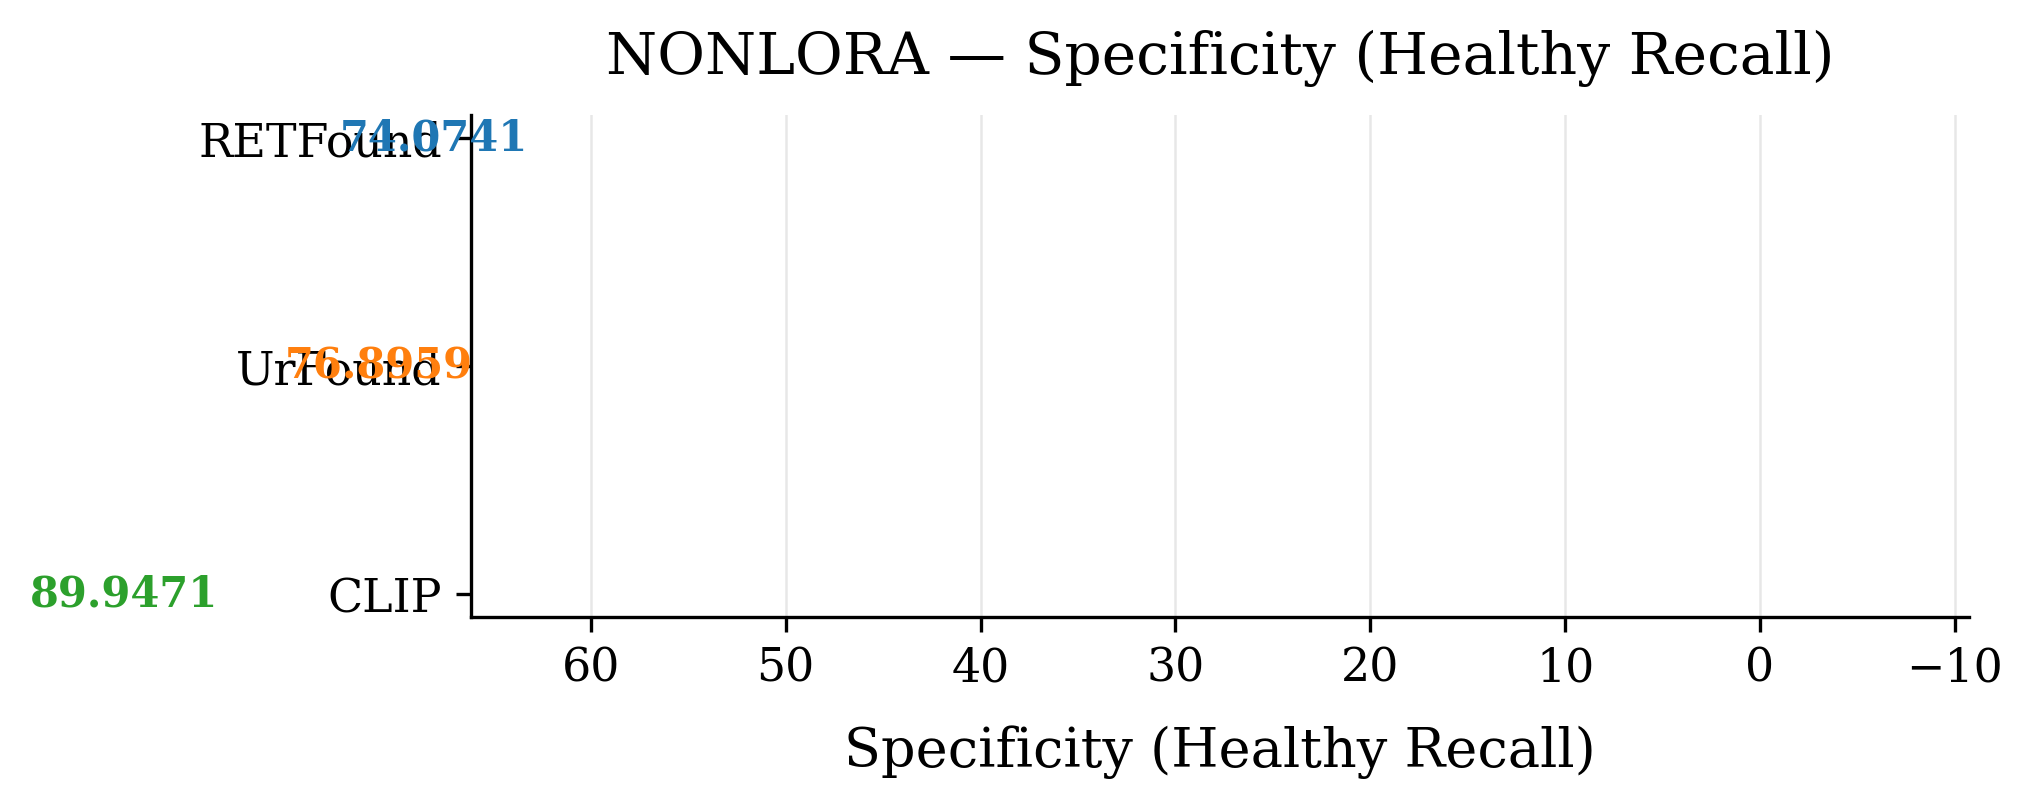
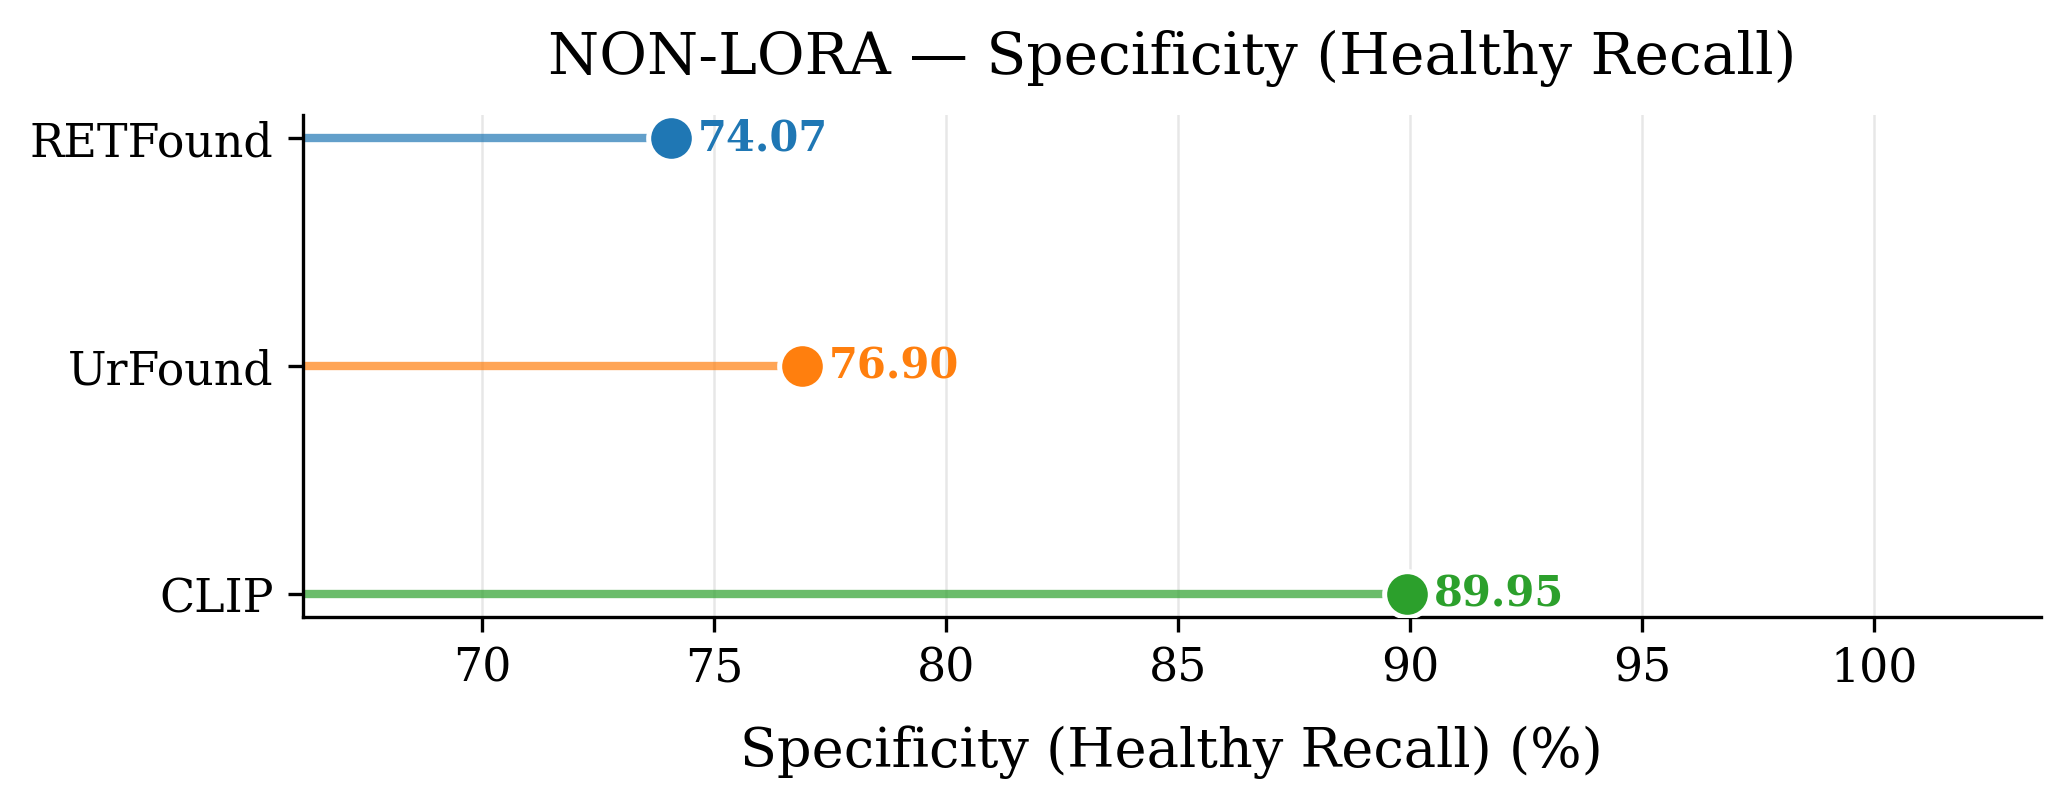
fix to initial no generation of sensitivity and specificity plots + broken glaucoma plots

diff --git a/src/main/results_collator.py b/src/main/results_collator.py
@@ -7,6 +7,7 @@ import pandas as pd
 import time
 import numpy as np
 import matplotlib.ticker as mticker
+from sklearn.metrics import multilabel_confusion_matrix
 
 def load_auc_data(json_path):
     with open(json_path, 'r') as f:
@@ -105,11 +106,16 @@ def _plot_single_metric(json_paths, model_names, output_dir, MODE,
 
     y_positions = np.arange(n_models)[::-1]
 
+    # ── FIX: detect percentage scale (e.g. 73.78) vs proportion (e.g. 0.7378)
+    is_percentage = max(values) > 1.5
+    x_cap = 100.0 if is_percentage else 1.0
+    x_floor = 0.0
+
     v_min  = min(values)
     v_max  = max(values)
-    margin = max((v_max - v_min) * 0.5, 0.05)
-    x_lo   = max(0.0, v_min - margin)
-    x_hi   = min(1.0, v_max + margin)
+    margin = max((v_max - v_min) * 0.5, 0.05 * x_cap)
+    x_lo   = max(x_floor, v_min - margin)
+    x_hi   = min(x_cap,   v_max + margin)
 
     for y, model, value in zip(y_positions, model_names, values):
         color = COLOR_MAP.get(model, 'C0')
@@ -117,14 +123,18 @@ def _plot_single_metric(json_paths, model_names, output_dir, MODE,
         ax.hlines(y, x_lo, value, color=color, linewidth=2.0, alpha=0.7)
         ax.scatter(value, y, color=color, s=120, zorder=5,
                    edgecolors='white', linewidths=1.2)
-        ax.text(value + (x_hi - x_lo) * 0.018, y, f'{value:.4f}',
+        ax.text(value + (x_hi - x_lo) * 0.018, y,
+                f'{value:.2f}' if is_percentage else f'{value:.4f}',
                 va='center', ha='left', fontsize=10,
                 color=color, fontfamily='serif', fontweight='bold')
 
     ax.set_yticks(y_positions)
     ax.set_yticklabels(model_names, fontsize=11)
     ax.set_xlim(x_lo, x_hi + (x_hi - x_lo) * 0.18)
-    ax.set_xlabel(metric_display, labelpad=8)
+    ax.set_xlabel(
+        f'{metric_display} (%)' if is_percentage else metric_display,
+        labelpad=8
+    )
     ax.set_title(f'{MODE} — {metric_display}', pad=10)
     ax.grid(axis='x', alpha=0.3, linewidth=0.6)
     ax.axvline(x_lo, color='black', linewidth=0.6)
@@ -134,7 +144,6 @@ def _plot_single_metric(json_paths, model_names, output_dir, MODE,
     plt.savefig(out, dpi=300, bbox_inches='tight')
     plt.close()
     print(f'Saved: {out}')
-
 
 def _label_bars(ax, bars, fmt='{:.3f}', fontsize=8.5, pad=0.004):
     for bar in bars:
@@ -212,6 +221,15 @@ def plot_qwk(json_paths, model_names, output_dir, MODE):
                         'Quadratic Weighted Kappa', 'qwk.png')
 
 
+def plot_sensitivity(json_paths, model_names, output_dir, MODE):
+    _plot_single_metric(json_paths, model_names, output_dir, MODE,
+                        'sensitivity', 'Sensitivity', 'sensitivity.png')
+
+
+def plot_specificity(json_paths, model_names, output_dir, MODE):
+    _plot_single_metric(json_paths, model_names, output_dir, MODE,
+                        'specificity', 'Specificity', 'specificity.png')
+
 def plot_all_metrics(json_paths, model_names, output_dir, MODE):
     os.makedirs(output_dir, exist_ok=True)
 
@@ -220,6 +238,9 @@ def plot_all_metrics(json_paths, model_names, output_dir, MODE):
     plot_recall(json_paths, model_names, output_dir, MODE)
     plot_f1(json_paths, model_names, output_dir, MODE)
     plot_qwk(json_paths, model_names, output_dir, MODE)
+    plot_sensitivity(json_paths, model_names, output_dir, MODE)
+    plot_specificity(json_paths, model_names, output_dir, MODE)
+
 
     print(f'\nAll plots saved to: {output_dir}')
 
@@ -323,7 +344,6 @@ def plot_all_metrics_glaucoma(json_paths, model_names, output_dir, MODE):
     plot_glaucoma_macro_f1(json_paths, model_names, output_dir, MODE)
     plot_glaucoma_sensitivity(json_paths, model_names, output_dir, MODE)
     plot_glaucoma_specificity(json_paths, model_names, output_dir, MODE)
-    plot_resnet50_glaucoma_per_class_recall(json_paths, model_names, output_dir, MODE)
 
     print(f'\nAll glaucoma plots saved to: {output_dir}')
 
@@ -607,10 +627,39 @@ def plot_js_heatmap(js_dict, model_names, title, output_path):
     print(f"Saved: {output_path}")
 
 
+def compute_and_patch_sensitivity_specificity(probs_path, true_path, json_path):
+    """
+    Computes macro sensitivity and specificity from .npy files
+    and writes them into the existing results JSON in-place.
+    Skips if both keys are already present.
+    """
+    data = _load_json(json_path)
+    if 'sensitivity' in data and 'specificity' in data:
+        print(f"Already patched: {json_path}")
+        return
+
+    probs  = np.load(probs_path)
+    labels = np.load(true_path).astype(int)
+    preds  = np.argmax(probs, axis=1)
+
+    mcm         = multilabel_confusion_matrix(labels, preds)
+    sensitivity = float(np.mean(mcm[:, 1, 1] / (mcm[:, 1, 1] + mcm[:, 1, 0] + 1e-10)))
+    specificity = float(np.mean(mcm[:, 0, 0] / (mcm[:, 0, 0] + mcm[:, 0, 1] + 1e-10)))
+
+    data['sensitivity'] = sensitivity
+    data['specificity'] = specificity
+
+    with open(json_path, 'w') as f:
+        json.dump(data, f, indent=4)
+    print(f"Patched sensitivity={sensitivity:.4f}, specificity={specificity:.4f} → {json_path}")
+
+
 if __name__ == "__main__":
 
     DR_NONLORA_TEST_RESULTS_DIR       = "./testing/non-lora/results"
     DR_LORA_TEST_RESULTS_DIR          = "./testing/lora-based/results"
+    GLAUCOMA_LORA_TEST_RESULTS_DIR = "./testing/lora-based/results"
+    GLAUCOMA_NONLORA_TEST_RESULTS_DIR = "./testing/non-lora/results"
     GLAUCOMA_RESNET50_TEST_RESULTS_DIR = "./testing/results/resnet50-glaucoma"
     GLAUCOMA_RESNET50_TEST_PLOTS_DIR  = "../plots/baseline-plots/resnet50-glaucoma-testing-plots"
     DR_RESNET50_TEST_RESULTS_DIR      = "./testing/results/resnet50-dr"
@@ -623,6 +672,77 @@ if __name__ == "__main__":
     dr_classes       = ["No DR", "Mild", "Moderate", "Severe", "Proliferative DR"]
     glaucoma_classes = ["Healthy", "Glaucoma"]
 
+    dr_true_files = {
+        "RETFound_LORA_DR":    f"{PROBS_DIR}/retfound_dr_lora_true.npy",
+        "RETFound_NONLORA_DR": f"{PROBS_DIR}/retfound_dr_nonlora_true.npy",
+        "UrFound_LORA_DR":     f"{PROBS_DIR}/urfound_lora_dr_true.npy",
+        "UrFound_NONLORA_DR":  f"{PROBS_DIR}/urfound-dr-nonlora_true.npy",
+        "CLIP_LORA_DR":        f"{PROBS_DIR}/clip_dr_lora_true.npy",
+        "CLIP_NONLORA_DR":     f"{PROBS_DIR}/clip-dr-nonlora_true.npy",
+        "ResNet50_DR":         f"{PROBS_DIR}/resnet50-dr_true.npy",
+    }
+
+
+    dr_prob_files = {
+        "RETFound_LORA_DR":    f"{PROBS_DIR}/retfound_dr_lora_probs.npy",
+        "RETFound_NONLORA_DR": f"{PROBS_DIR}/retfound_dr_nonlora_probs.npy",
+        "UrFound_LORA_DR":     f"{PROBS_DIR}/urfound_lora_dr_probs.npy",
+        "UrFound_NONLORA_DR":  f"{PROBS_DIR}/urfound-dr-nonlora_probs.npy",
+        "CLIP_LORA_DR":        f"{PROBS_DIR}/clip_dr_lora_probs.npy",
+        "CLIP_NONLORA_DR":     f"{PROBS_DIR}/clip-dr-nonlora_probs.npy",
+        "ResNet50_DR":         f"{PROBS_DIR}/resnet50-dr_probs.npy",
+    }
+
+    glaucoma_prob_files = {
+        "RETFound_LORA_GLAUCOMA":    f"{PROBS_DIR}/retfound_lora_glaucoma_probs.npy",
+        "RETFound_NONLORA_GLAUCOMA": f"{PROBS_DIR}/retfound_glaucoma_nonlora_probs.npy",
+        "UrFound_LORA_GLAUCOMA":     f"{PROBS_DIR}/urfound_lora_glaucoma_probs.npy",
+        "UrFound_NONLORA_GLAUCOMA":  f"{PROBS_DIR}/urfound_nonlora_glaucoma_probs.npy",
+        "CLIP_LORA_GLAUCOMA":        f"{PROBS_DIR}/clip_lora_glaucoma_probs.npy",
+        "CLIP_NONLORA_GLAUCOMA":     f"{PROBS_DIR}/clip_nonlora_glaucoma_probs.npy",
+        "ResNet50_GLAUCOMA":         f"{PROBS_DIR}/resnet50_glaucoma_probs.npy",
+    }
+    
+    lora_glaucoma_jsons = [
+        f"{GLAUCOMA_LORA_TEST_RESULTS_DIR}/retfound-glaucoma/retfound_glaucoma_test_results.json",
+        f"{GLAUCOMA_LORA_TEST_RESULTS_DIR}/urfound-glaucoma/urfound_glaucoma_test_results.json",
+        f"{GLAUCOMA_LORA_TEST_RESULTS_DIR}/clip-glaucoma/clip_glaucoma_test_results.json",
+    ]
+    
+    lora_glaucoma_model_names = ["RETFound", "UrFound", "CLIP"]
+    lora_glaucoma_plot_dir    = "../plots/lora-final-plots/glaucoma"
+
+    if all(os.path.exists(p) for p in lora_glaucoma_jsons):
+        plot_all_metrics_glaucoma(
+            lora_glaucoma_jsons,
+            lora_glaucoma_model_names,
+            lora_glaucoma_plot_dir,
+            "LORA"
+        )
+    else:
+        missing = [p for p in lora_glaucoma_jsons if not os.path.exists(p)]
+        print(f"Skipping LoRA glaucoma plots — missing: {missing}")
+
+
+    # ── Non-LoRA Glaucoma (foundation models) ──────────────────────────────────
+    nonlora_glaucoma_jsons = [
+        f"{GLAUCOMA_NONLORA_TEST_RESULTS_DIR}/retfound-glaucoma-nonlora/retfound_glaucoma_nonlora_test_results.json",
+        f"{GLAUCOMA_NONLORA_TEST_RESULTS_DIR}/urfound-glaucoma-nonlora/urfound_glaucoma_nonlora_test_results.json",
+        f"{GLAUCOMA_NONLORA_TEST_RESULTS_DIR}/clip-glaucoma-nonlora/clip_glaucoma_nonlora_test_results.json",
+    ]
+    nonlora_glaucoma_model_names = ["RETFound", "UrFound", "CLIP"]
+    nonlora_glaucoma_plot_dir    = "../plots/nonlora-final-plots/glaucoma"
+
+    if all(os.path.exists(p) for p in nonlora_glaucoma_jsons):
+        plot_all_metrics_glaucoma(
+            nonlora_glaucoma_jsons,
+            nonlora_glaucoma_model_names,
+            nonlora_glaucoma_plot_dir,
+            "NON-LORA"
+        )
+    else:
+        missing = [p for p in nonlora_glaucoma_jsons if not os.path.exists(p)]
+        print(f"Skipping non-LoRA glaucoma plots — missing: {missing}")
     
     # general DR plots
     lora_dr_jsons = [
@@ -631,8 +751,33 @@ if __name__ == "__main__":
             f"{DR_LORA_TEST_RESULTS_DIR}/clip/clip_test_results.json",
     ]
 
+    nonlora_dr_jsons = [f"{DR_NONLORA_TEST_RESULTS_DIR}/retfound/retfound_nonlora_test_results.json",
+                        f"{DR_NONLORA_TEST_RESULTS_DIR}/urfound/urfound_nonlora_test_results.json",
+                        f"{DR_NONLORA_TEST_RESULTS_DIR}/clip/clip_nonlora_test_results.json",
+    ]
+
     lora_dr_model_names = ["RETFound", "UrFound", "CLIP"]
     lora_dr_plot_dir    = "../plots/lora-final-plots/dr"
+
+    patch_map_lora_dr = {
+        "RETFound_LORA_DR": lora_dr_jsons[0],
+        "UrFound_LORA_DR":  lora_dr_jsons[1],
+        "CLIP_LORA_DR":     lora_dr_jsons[2],
+    }
+    patch_map_nonlora_dr = {
+        "RETFound_NONLORA_DR": nonlora_dr_jsons[0],
+        "UrFound_NONLORA_DR":  nonlora_dr_jsons[1],
+        "CLIP_NONLORA_DR":     nonlora_dr_jsons[2],
+    }
+    for key, json_path in {**patch_map_lora_dr, **patch_map_nonlora_dr}.items():
+        if os.path.exists(json_path) and os.path.exists(dr_prob_files[key]) and os.path.exists(dr_true_files[key]):
+            compute_and_patch_sensitivity_specificity(
+                dr_prob_files[key], dr_true_files[key], json_path
+            )
+        else:
+            print(f"Skipping patch for {key} — missing files")
+
+
 
     if all(os.path.exists(p) for p in lora_dr_jsons):
         plot_all_metrics(lora_dr_jsons, lora_dr_model_names, lora_dr_plot_dir, "LORA")
@@ -640,9 +785,6 @@ if __name__ == "__main__":
         missing = [p for p in lora_dr_jsons if not os.path.exists(p)]
         print(f"Skipping LoRA DR plots — missing: {missing}")
    
-    nonlora_dr_jsons = [                                                                                                        f"{DR_NONLORA_TEST_RESULTS_DIR}/retfound/retfound_nonlora_test_results.json",                                  f"{DR_NONLORA_TEST_RESULTS_DIR}/urfound/urfound_nonlora_test_results.json",                                    f"{DR_NONLORA_TEST_RESULTS_DIR}/clip/clip_nonlora_test_results.json",                            ]
-
-
     nonlora_dr_model_names = ["RETFound", "UrFound", "CLIP"]
     nonlora_dr_plot_dir    = "../plots/nonlora-final-plots/dr"
 
@@ -677,28 +819,7 @@ if __name__ == "__main__":
     ]
     plot_all_metrics_glaucoma(resnet_50_glaucoma_jsons, ["ResNet50"], GLAUCOMA_RESNET50_TEST_PLOTS_DIR, "BASELINE")
 
-    # -------------------------
     # JS divergence
-    # -------------------------
-    dr_prob_files = {
-        "RETFound_LORA_DR":    f"{PROBS_DIR}/retfound_dr_lora_probs.npy",
-        "RETFound_NONLORA_DR": f"{PROBS_DIR}/retfound_dr_nonlora_probs.npy",
-        "UrFound_LORA_DR":     f"{PROBS_DIR}/urfound_lora_dr_probs.npy",
-        "UrFound_NONLORA_DR":  f"{PROBS_DIR}/urfound-dr-nonlora_probs.npy",
-        "CLIP_LORA_DR":        f"{PROBS_DIR}/clip_dr_lora_probs.npy",
-        "CLIP_NONLORA_DR":     f"{PROBS_DIR}/clip-dr-nonlora_probs.npy",
-        "ResNet50_DR":         f"{PROBS_DIR}/resnet50-dr_probs.npy",
-    }
-
-    glaucoma_prob_files = {
-        "RETFound_LORA_GLAUCOMA":    f"{PROBS_DIR}/retfound_lora_glaucoma_probs.npy",
-        "RETFound_NONLORA_GLAUCOMA": f"{PROBS_DIR}/retfound_glaucoma_nonlora_probs.npy",
-        "UrFound_LORA_GLAUCOMA":     f"{PROBS_DIR}/urfound_lora_glaucoma_probs.npy",
-        "UrFound_NONLORA_GLAUCOMA":  f"{PROBS_DIR}/urfound_nonlora_glaucoma_probs.npy",
-        "CLIP_LORA_GLAUCOMA":        f"{PROBS_DIR}/clip_lora_glaucoma_probs.npy",
-        "CLIP_NONLORA_GLAUCOMA":     f"{PROBS_DIR}/clip_nonlora_glaucoma_probs.npy",
-        "ResNet50_GLAUCOMA":         f"{PROBS_DIR}/resnet50_glaucoma_probs.npy",
-    }
 
     # DR JS divergence
 
